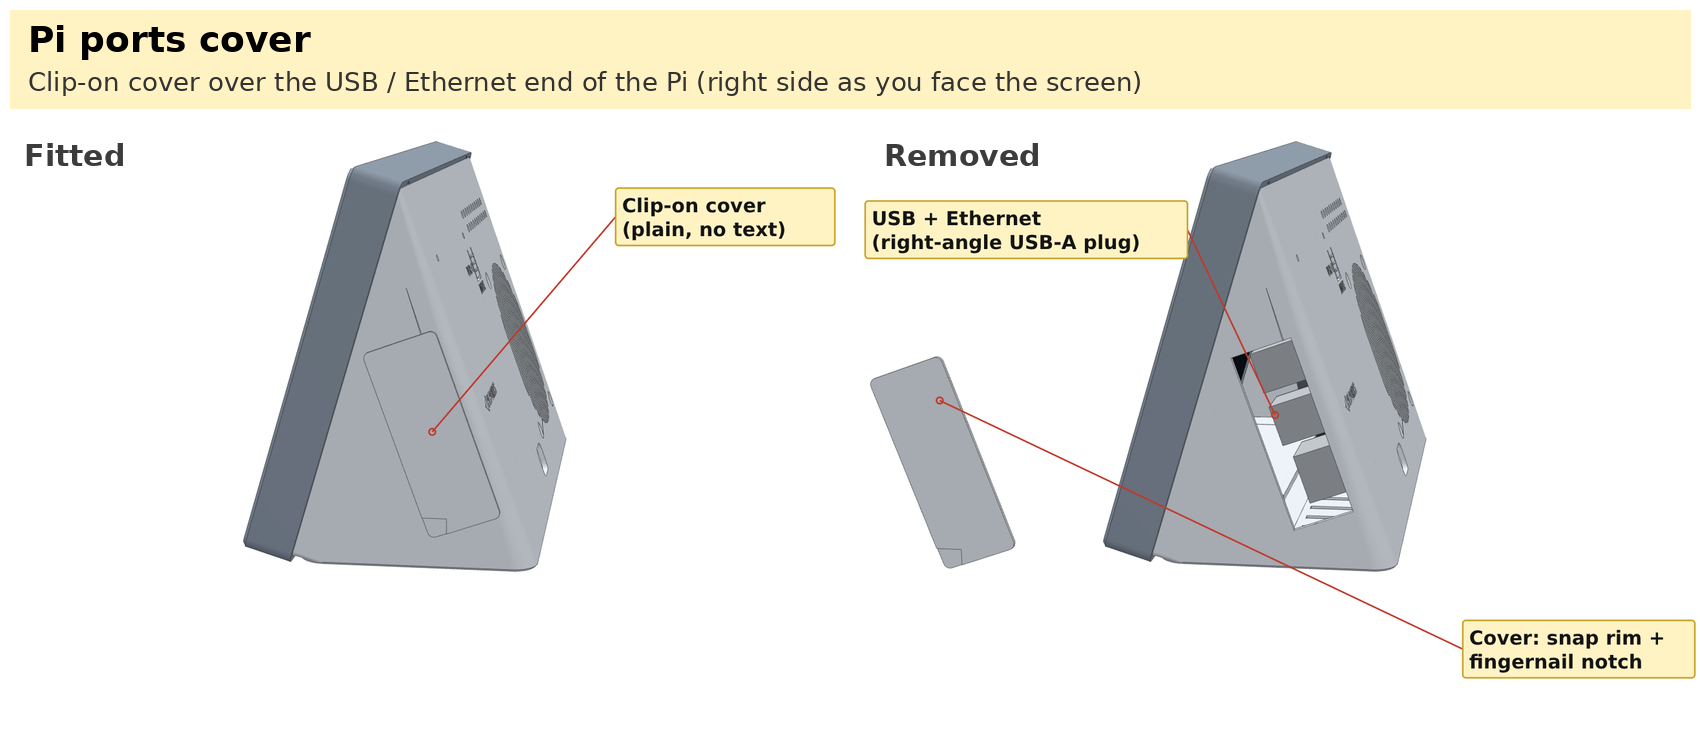
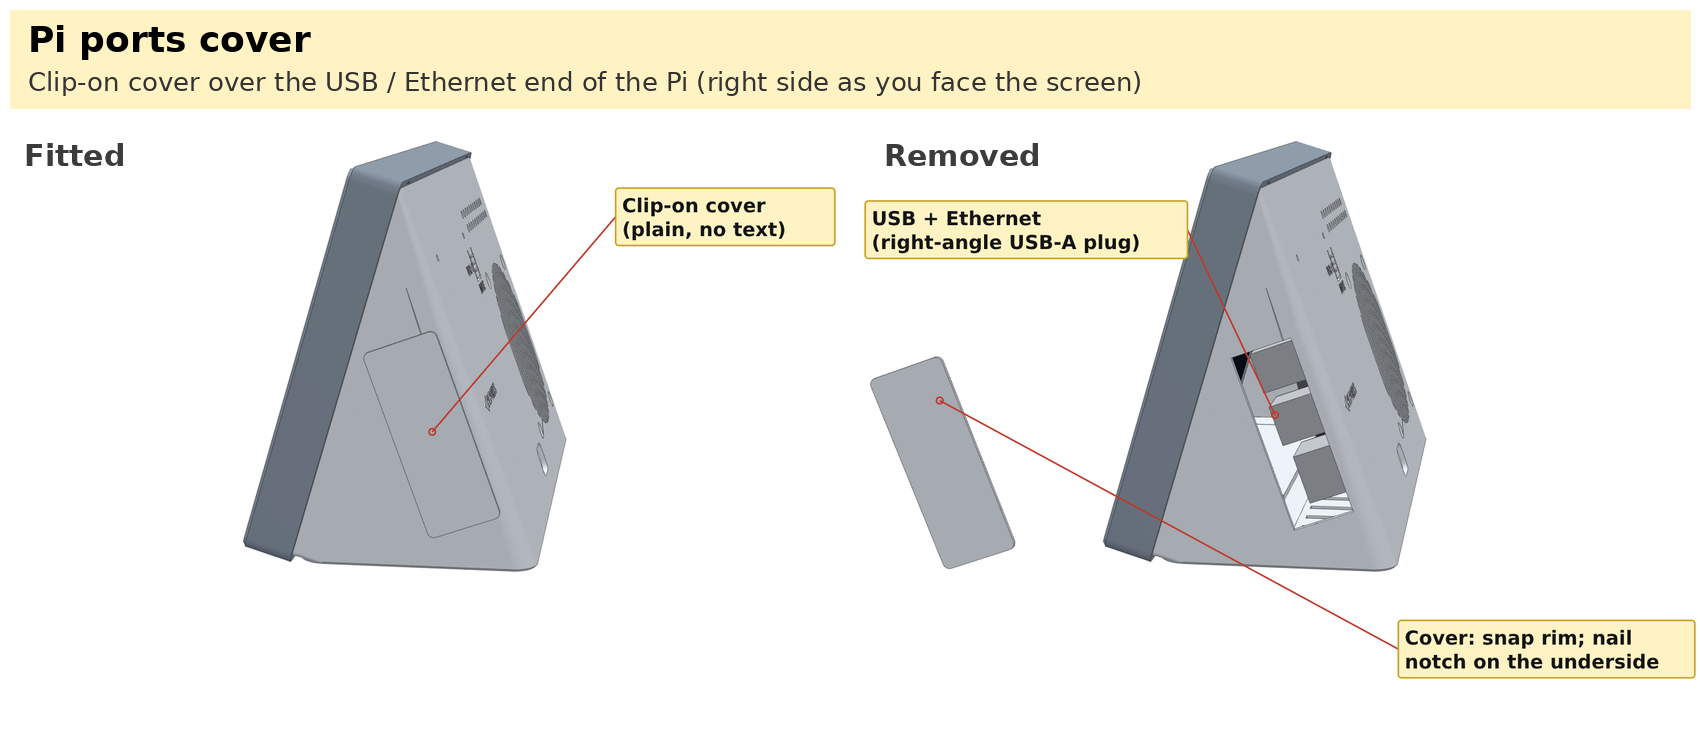
Pi ports cover: move fingernail notch to the underside
The notch was a step in the top face, which gives a nail nothing to get
under. It is now a 0.6 mm relief on the underside of the plate overhang
at the lower front corner, so the top face stays flat. Renders updated.

Claude-Session: https://claude.ai/code/session_013mbAUoxRrcFvJomUevHXCc

diff --git a/source/door.py b/source/door.py
@@ -29,9 +29,12 @@ for a,b in edges:
     tri = Polygon([mid-0.7*n-6*d, mid-0.7*n+6*d, mid+0.3*n+6*d, mid+0.3*n-6*d])
     bump = ext(tri, XI-0.55, XI-0.05)
     door = door.union(bump, engine='manifold')
-# fingernail notch on the front-lower edge of the plate
+# fingernail notch: on the UNDERSIDE of the plate overhang at the front-lower corner,
+# leaving a 0.6 mm gap between plate and wall to get a nail under; top face stays clean
+from shapely.geometry import Point
 fc = np.array(plate_poly.exterior.coords); lowfront = fc[np.argmin(fc[:,0]+fc[:,1])]
-notch = trimesh.creation.box(extents=[1.0, 8, 8]); notch.apply_translation([XO+1.2, lowfront[0]+1.5, lowfront[1]+1.5])
+scoop = Point(lowfront).buffer(7.0).intersection(plate_poly.buffer(1.0).difference(W.buffer(0.5, join_style=2)))
+notch = ext(scoop, XO-0.05, XO+0.6)
 door = door.difference(notch, engine='manifold')
 print('door watertight', door.is_watertight, 'bodies', len(door.split(only_watertight=False)), 'size', door.extents.round(1))
 door.export('door_use.stl')

diff --git a/source/render/scenes.py b/source/render/scenes.py
@@ -81,7 +81,7 @@ pc_cam=[560,110,150]; pc_t=[80,42,42]
 S.append(dict(out='raw_pc_closed.png',w=1300,h=950,fov=22,cam=pc_cam,target=pc_t,parts=[stand,frame,glass,door]+pi,
   labels=[dict(p=[95.8,48,44],t='Clip-on cover\n(plain, no text)',at=[1000,150])]))
 S.append(dict(out='raw_pc_open.png',w=1300,h=950,fov=22,cam=pc_cam,target=pc_t,parts=[stand,frame,glass,P('door',C['door'],off=[30,-100,-5])]+pi,
-  labels=[dict(p=[77,40,45],t='USB + Ethernet\n(right-angle USB-A plug)',at=[300,170]),dict(p=[126,-52,57],t='Cover: snap rim +\nfingernail notch',at=[1000,820])]))
+  labels=[dict(p=[77,40,45],t='USB + Ethernet\n(right-angle USB-A plug)',at=[300,170]),dict(p=[126,-52,57],t='Cover: snap rim; nail\nnotch on the underside',at=[1000,820])]))
 # ---------- speaker box: rim side + section through the mounted box
 bc=np.array([-52,40,45])
 S.append(dict(out='raw_box.png',w=1000,h=900,fov=24,cam=v(bc+300*(-nw)+np.array([-120,0,90])),target=v(bc),parts=[P('box',C['box'])],

diff --git a/README.md b/README.md
@@ -43,7 +43,7 @@ Bed of at least 200 × 130 mm. PLA or PETG, 0.4 mm nozzle. Print the stand at hi
 - **Original look**: thin snap-on frame band and wedge stand, scaled up for a 7" landscape screen. Five snap tabs per long edge (three added, copied exactly from the original geometry).
 - **Display clamp**: a spacer ring on the stand takes the 6.45 mm glass; 2 mm foam tape on the ring absorbs the ±0.5 mm tolerance. Frame corners match the glass's 8 mm radius.
 - **Pi 5** on four printed standoffs on the back wall; USB-C power port sits right above the rear cable hole. Fit the microSD card before mounting.
-- **Pi ports access**: clip-on cover on the right side (as you face the screen) over the USB / Ethernet end. See `images/pi-ports-cover.png`.
+- **Pi ports access**: clip-on cover on the right side (as you face the screen) over the USB / Ethernet end; lift it off with a fingernail at the notch under its lower front corner. See `images/pi-ports-cover.png`.
 - **ReSpeaker Lite** on two M2 standoffs, mics sealed to two back-wall pinholes with small foam squares on raised pads.
 - **MUTE** is a press-in flexure button printed into the back wall (with grip ridges); **USR** is a poke hole. Both engraved.
 - **3" speaker** in its own sealed box (~160 cm³), clamped by four screws from the back; grille in the back wall.
